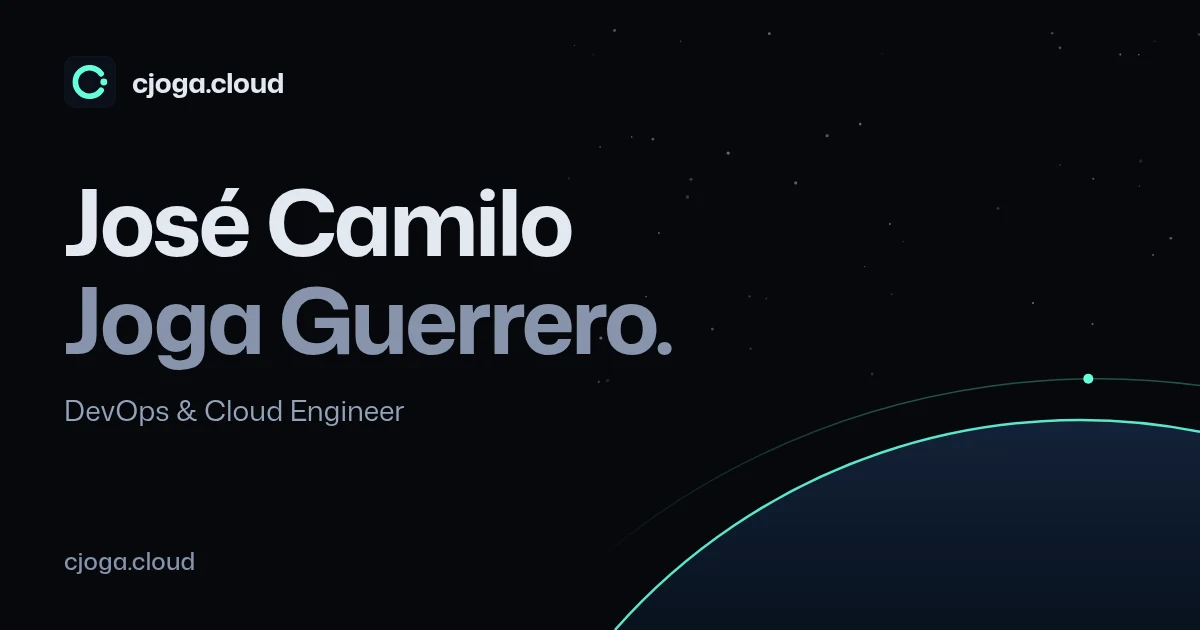
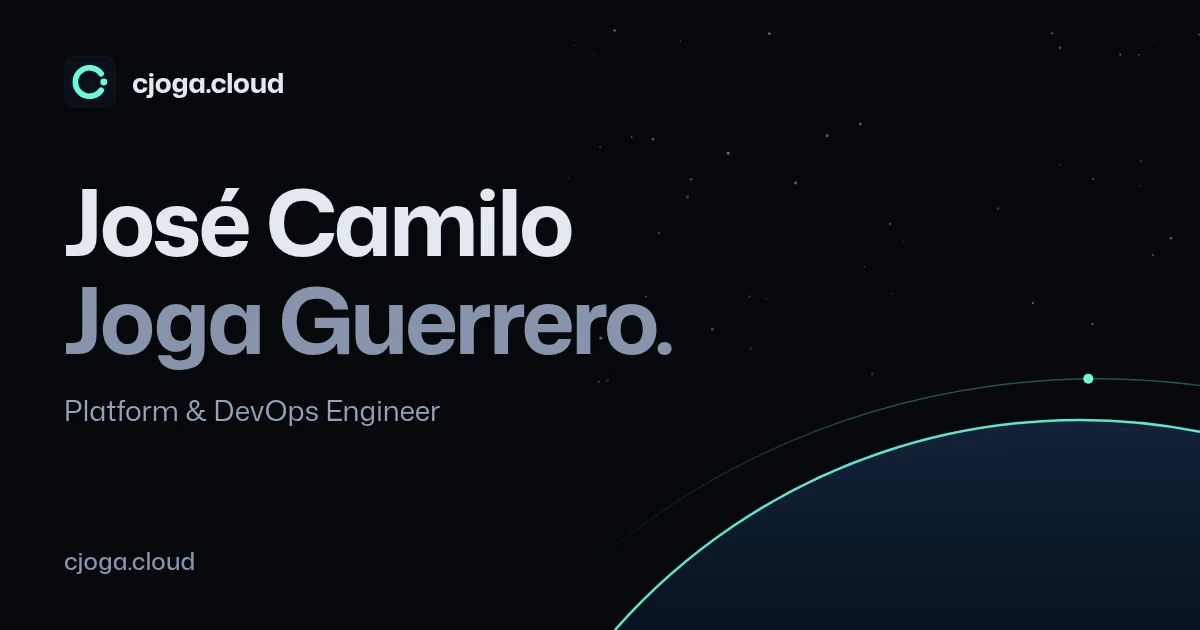
fix(portfolio): one set of facts, titles and brand colours across both sites
From a four-way consistency audit of the portfolio and the handbook:
the hero roles name real work, led by "Platform & DevOps Engineer" (no
"Senior" on either site); the Tech MBA uses UNIR's name and "in
progress"; the CV lists certifications most recent first with CKA's
November 30, 2026 target; KodePull SRL is cased one way; lab labels say
"Cluster overview"; the contact line says remote with global scope.

Brand colours now match between sites and their sources: Terraform
#7b42bc, Dynatrace #1496ff, Globant #bfd732, Arctiq #42d4ff (from
arctiq.com); Azure, Azure DevOps and Docker use the same icons as the
handbook. The portfolio's social card drops the old "DevOps & Cloud
Engineer" title.

Changed region(s): [[0.0617, 0.6333, 0.37, 0.6937]]

diff --git a/src/components/ProfessionalPDFCV.jsx b/src/components/ProfessionalPDFCV.jsx
@@ -157,6 +157,24 @@ const CV_NAME = "José Camilo Joga Guerrero";
 // full record.
 const CV_LINES = 6;
 
+// Earned certifications, most recent first: the order of the handbook's
+// credentials page. CKA (in progress) prints after them with its target.
+const CV_CERTS = [
+  "spectro",
+  "ckad",
+  "kcna",
+  "hcta",
+  "awsSolutionsArchitect",
+  "rhce",
+  "rhcsa",
+  "dynatrace",
+  "partner",
+  "gitlabImplementation",
+  "gitlabServices",
+  "gitlabMigration",
+  "gitlabCicd",
+];
+
 const ProfessionalPDFCV = () => {
   const { t } = useTranslation();
 
@@ -405,129 +423,24 @@ const ProfessionalPDFCV = () => {
             {t("cv.certifications", "CERTIFICATIONS")}
           </Text>
           <View style={styles.certGrid}>
-            <View style={styles.certItem}>
-              <Text style={styles.certName}>
-                {t("certifications.awsSolutionsArchitect.name")}
-              </Text>
-              <Text style={styles.certIssuer}>
-                {t("certifications.awsSolutionsArchitect.issuer")},{" "}
-                {t("certifications.awsSolutionsArchitect.date")}
-              </Text>
-            </View>
-            <View style={styles.certItem}>
-              <Text style={styles.certName}>
-                {t("certifications.hcta.name")}
-              </Text>
-              <Text style={styles.certIssuer}>
-                {t("certifications.hcta.issuer")},{" "}
-                {t("certifications.hcta.date")}
-              </Text>
-            </View>
-            <View style={styles.certItem}>
-              <Text style={styles.certName}>
-                {t("certifications.kcna.name")}
-              </Text>
-              <Text style={styles.certIssuer}>
-                {t("certifications.kcna.issuer")},{" "}
-                {t("certifications.kcna.date")}
-              </Text>
-            </View>
-            <View style={styles.certItem}>
-              <Text style={styles.certName}>
-                {t("certifications.ckad.name")}
-              </Text>
-              <Text style={styles.certIssuer}>
-                {t("certifications.ckad.issuer")},{" "}
-                {t("certifications.ckad.date")}
-              </Text>
-            </View>
+            {CV_CERTS.map((key) => (
+              <View key={key} style={styles.certItem}>
+                <Text style={styles.certName}>
+                  {t(`certifications.${key}.name`)}
+                </Text>
+                <Text style={styles.certIssuer}>
+                  {t(`certifications.${key}.issuer`)},{" "}
+                  {t(`certifications.${key}.date`)}
+                </Text>
+              </View>
+            ))}
             <View style={styles.certItem}>
               <Text style={styles.certName}>
                 {t("certifications.cka.name")}
               </Text>
               <Text style={styles.certIssuer}>
-                {t("certifications.cka.issuer")} ({t("certifications.inProgress")})
-              </Text>
-            </View>
-            <View style={styles.certItem}>
-              <Text style={styles.certName}>
-                {t("certifications.rhcsa.name")}
-              </Text>
-              <Text style={styles.certIssuer}>
-                {t("certifications.rhcsa.issuer")},{" "}
-                {t("certifications.rhcsa.date")}
-              </Text>
-            </View>
-            <View style={styles.certItem}>
-              <Text style={styles.certName}>
-                {t("certifications.rhce.name")}
-              </Text>
-              <Text style={styles.certIssuer}>
-                {t("certifications.rhce.issuer")},{" "}
-                {t("certifications.rhce.date")}
-              </Text>
-            </View>
-            <View style={styles.certItem}>
-              <Text style={styles.certName}>
-                {t("certifications.dynatrace.name")}
-              </Text>
-              <Text style={styles.certIssuer}>
-                {t("certifications.dynatrace.issuer")},{" "}
-                {t("certifications.dynatrace.date")}
-              </Text>
-            </View>
-            <View style={styles.certItem}>
-              <Text style={styles.certName}>
-                {t("certifications.gitlabCicd.name")}
-              </Text>
-              <Text style={styles.certIssuer}>
-                {t("certifications.gitlabCicd.issuer")},{" "}
-                {t("certifications.gitlabCicd.date")}
-              </Text>
-            </View>
-            <View style={styles.certItem}>
-              <Text style={styles.certName}>
-                {t("certifications.gitlabServices.name")}
-              </Text>
-              <Text style={styles.certIssuer}>
-                {t("certifications.gitlabServices.issuer")},{" "}
-                {t("certifications.gitlabServices.date")}
-              </Text>
-            </View>
-            <View style={styles.certItem}>
-              <Text style={styles.certName}>
-                {t("certifications.gitlabMigration.name")}
-              </Text>
-              <Text style={styles.certIssuer}>
-                {t("certifications.gitlabMigration.issuer")},{" "}
-                {t("certifications.gitlabMigration.date")}
-              </Text>
-            </View>
-            <View style={styles.certItem}>
-              <Text style={styles.certName}>
-                {t("certifications.gitlabImplementation.name")}
-              </Text>
-              <Text style={styles.certIssuer}>
-                {t("certifications.gitlabImplementation.issuer")},{" "}
-                {t("certifications.gitlabImplementation.date")}
-              </Text>
-            </View>
-            <View style={styles.certItem}>
-              <Text style={styles.certName}>
-                {t("certifications.spectro.name")}
-              </Text>
-              <Text style={styles.certIssuer}>
-                {t("certifications.spectro.issuer")},{" "}
-                {t("certifications.spectro.date")}
-              </Text>
-            </View>
-            <View style={styles.certItem}>
-              <Text style={styles.certName}>
-                {t("certifications.partner.name")}
-              </Text>
-              <Text style={styles.certIssuer}>
-                {t("certifications.partner.issuer")},{" "}
-                {t("certifications.partner.date")}
+                {t("certifications.cka.issuer")} ({t("certifications.inProgress")}) ·{" "}
+                {t("certifications.cka.date")}
               </Text>
             </View>
           </View>

diff --git a/src/components/About.jsx b/src/components/About.jsx
@@ -1,15 +1,15 @@
 import { useEffect, useRef, useState } from "react";
 import { useTranslation } from "react-i18next";
 import { m } from "framer-motion";
-import { FaAws, FaMicrosoft, FaDocker } from "react-icons/fa";
+import { FaAws } from "react-icons/fa";
 import {
   SiTerraform, SiAnsible, SiKubernetes, SiGitlab,
   SiJenkins, SiDynatrace, SiGithubactions,
   SiClaude, SiModelcontextprotocol, SiArgo, SiGrafana, SiOpentelemetry,
-  SiGnubash, SiAnthropic, SiNutanix,
+  SiGnubash, SiAnthropic, SiNutanix, SiDocker,
 } from "react-icons/si";
 import SectionHeading from "./SectionHeading";
-import { VscTerminalPowershell } from "react-icons/vsc";
+import { VscTerminalPowershell, VscAzure, VscAzureDevops } from "react-icons/vsc";
 import {
   sectionVariants, itemVariants,
   useParallax, viewportConfig,
@@ -83,9 +83,9 @@ function About() {
   // stage: it runs alongside all of them.
   const stages = [
     { id: "scripting", items: [["Bash", SiGnubash, "#4eaa25"], ["PowerShell", VscTerminalPowershell, "#5391fe"]] },
-    { id: "delivery", items: [["ArgoCD", SiArgo, "#ef7b4d"], ["GitLab CI", SiGitlab, "#fc6d26"], ["GitHub Actions", SiGithubactions, "#2088ff"], ["Azure DevOps", FaMicrosoft, "#0078d4"], ["Jenkins", SiJenkins, "#d24939"]] },
-    { id: "platform", items: [["Kubernetes", SiKubernetes, "#326ce5"], ["Terraform", SiTerraform, "#7b42bc"], ["Ansible", SiAnsible, "#ee0000"], ["Docker", FaDocker, "#2496ed"]] },
-    { id: "cloud", items: [["AWS · EKS", FaAws, "#ff9900"], ["Azure · AKS", FaMicrosoft, "#0078d4"], ["Nutanix · NKP", SiNutanix, "#7855fa"]] },
+    { id: "delivery", items: [["ArgoCD", SiArgo, "#ef7b4d"], ["GitLab CI", SiGitlab, "#fc6d26"], ["GitHub Actions", SiGithubactions, "#2088ff"], ["Azure DevOps", VscAzureDevops, "#0078d4"], ["Jenkins", SiJenkins, "#d24939"]] },
+    { id: "platform", items: [["Kubernetes", SiKubernetes, "#326ce5"], ["Terraform", SiTerraform, "#7b42bc"], ["Ansible", SiAnsible, "#ee0000"], ["Docker", SiDocker, "#2496ed"]] },
+    { id: "cloud", items: [["AWS · EKS", FaAws, "#ff9900"], ["Azure · AKS", VscAzure, "#0078d4"], ["Nutanix · NKP", SiNutanix, "#7855fa"]] },
     { id: "observability", items: [["OpenTelemetry", SiOpentelemetry, "#f5a800"], ["Grafana", SiGrafana, "#f46800"], ["Dynatrace", SiDynatrace, "#1496ff"]] },
   ];
   const agents = [["Claude Code", SiClaude, "#d97757"], ["MCP servers", SiModelcontextprotocol, "#8b8bf5"], ["Agent Skills", SiAnthropic, "#d97757"]];

diff --git a/src/components/Experience.jsx b/src/components/Experience.jsx
@@ -10,13 +10,14 @@ import {
   viewportConfig,
 } from "../hooks/useMotion";
 
-// Each employer's square mark, as on LinkedIn; the colour tints the
-// pulse ring on current roles.
+// Each employer's square mark, as on LinkedIn; the colour (each brand's
+// own accent: Globant's lime, KodePull's orange, FL Betances' navy,
+// Arctiq's cyan from arctiq.com) tints the pulse ring on current roles.
 const COMPANY_META = {
-  globant: { logo: "/images/logos/globant.svg", color: "#8dc63f" },
+  globant: { logo: "/images/logos/globant.svg", color: "#bfd732" },
   kodepull: { logo: "/images/logos/kodepull.svg", color: "#fe5502" },
   flBetances: { logo: "/images/logos/fl-betances.png", color: "#1a2a9c" },
-  arctiq: { logo: "/images/logos/arctiq.svg", color: "#10b981" },
+  arctiq: { logo: "/images/logos/arctiq.svg", color: "#42d4ff" },
 };
 
 // Each role leads with its three strongest lines; the rest open on

diff --git a/src/components/certifications/certData.js b/src/components/certifications/certData.js
@@ -68,7 +68,7 @@ export const CERT_GROUPS = [
     vendor: "HashiCorp",
     vendorShort: "HashiCorp",
     icon: SiTerraform,
-    color: "#7f4dff",
+    color: "#7b42bc",
     size: "standard",
     liveTile: "terraform",
     spanClasses: "md:col-span-1 md:row-span-2 lg:col-span-2",
@@ -84,7 +84,7 @@ export const CERT_GROUPS = [
     vendor: "Dynatrace",
     vendorShort: "Dynatrace",
     icon: SiDynatrace,
-    color: "#73be28",
+    color: "#1496ff",
     size: "standard",
     liveTile: "dynatrace",
     spanClasses: "md:col-span-1 md:row-span-2 lg:col-span-2",
@@ -136,6 +136,8 @@ export const CERT_GROUPS = [
     vendor: "Spectro Cloud",
     vendorShort: "Spectro Cloud",
     icon: SpectroMark,
+    // Spectro Cloud's teal (#1f7a78 in its artwork), lifted so the tile's
+    // linework reads on the dark screen.
     color: "#2bb3a3",
     size: "standard",
     liveTile: "spectro",

diff --git a/src/components/Projects.jsx b/src/components/Projects.jsx
@@ -56,7 +56,7 @@ const projects = [
     key: "iac",
     link: "globant",
     span: "",
-    color: "#7f4dff",
+    color: "#7b42bc",
     accent: "#b08aff",
     icons: [SiTerraform, FaAws, FaMicrosoft],
     caseStudy: `${HANDBOOK_URL}/engineering/work/globant`,

diff --git a/DESIGN.md b/DESIGN.md
@@ -182,7 +182,7 @@ Near-black space blues with one cool signal accent; daylight inverts the grounds
 ### Named Rules
 **The One Signal Rule.** Mint (teal in daylight) is the only accent, and it means "live or actionable". Nothing decorative is mint except the planet's rim light and orbit dashes.
 
-**The Always-Dark Chapter Rule.** The homelab and terminal chapter pins the dark palette in both themes. In light it becomes an inset dark panel with a clean edge, not a fade from white.
+**The Always-Dark Chapter Rule.** The cluster and terminal chapter pins the dark palette in both themes. In light it becomes an inset dark panel with a clean edge, not a fade from white.
 
 **The Paired Theme Rule.** Every pair must clear WCAG AA in both themes; `npm run contrast:check` is the gate.
 
@@ -295,7 +295,7 @@ Composed and precise: components announce state with tone and a small lift, neve
 A C drawn as an orbit (a 28-unit stroke on a 70-unit ring, round caps, opening ±0.62 rad to the right) with its satellite parked in the gap, in Signal Mint on a Deep Space (#0b0f1a) tile with 58-unit corners on a 256 grid and a 16%-mint hairline edge. Pure geometry: no text element, no gradient. The source is `scripts/brand/mark.svg` (maskable variant: `scripts/brand/maskable.svg`); `npm run brand` renders the favicons, app icons and social cards for both sites. The tile stays dark in the light theme.
 
 ### Reader Paths (handbook)
-From 1200px the four readers sit two by two (studying, hiring / homelab, opinions), each heading and intro over its rows, paired lists aligned by subgrid; 997–1199px keeps heading-left, rows-right; phones stack in the same order. The handbook's entry points by reader ("If you're studying", "If you're hiring", "If you're curious about the homelab", "If you want my opinions and what I'm up to"): a heading and a one-line intro per reader on the left and its links on the right from 997px, as hairline rows of at least 56px with an arrow that nudges on hover. One source (`blog-site/src/data/readerPaths.js`) feeds the landing page and the 404 page. The section index pages use the same rows (`ReaderPaths/rows.module.css`, via SectionCardGrid): title, one-line description, no icons. Each row's label is the exact title of the page it opens. "If you're hiring" ends on "CV on cjoga.cloud" (cjoga.cloud/#contact), opening in place with no external-link mark. Rows reach 12px past the column on each side so the focus ring, drawn inside the row, has room around the text without moving it. Lists ordered by date (Tips and gotchas) add a quiet date read from each page's front matter at build time, and lists in reading order (Opinions) show none; the article dateline keeps both Published and Updated. The 404 page echoes the address that wasn't found, offers a search field pre-filled with that address's words, then the reader paths. It lists up to three closest pages first, as reader-path rows (title, path below), offered only when a page covers at least half the words of the bad address's last segment (else the nearest published folder above it, or nothing); the echoed address wraps only after "/" or "-" and leads the page (1.125rem, full ink) with the lede a step down; the search is pre-filled only with words a page could be about, else it shows its placeholder.
+From 1200px the four readers sit two by two (studying, hiring / cluster, opinions), each heading and intro over its rows, paired lists aligned by subgrid; 997–1199px keeps heading-left, rows-right; phones stack in the same order. The handbook's entry points by reader ("If you're studying", "If you're hiring", "If you're curious about the homelab", "If you want my opinions and what I'm up to"): a heading and a one-line intro per reader on the left and its links on the right from 997px, as hairline rows of at least 56px with an arrow that nudges on hover. One source (`blog-site/src/data/readerPaths.js`) feeds the landing page and the 404 page. The section index pages use the same rows (`ReaderPaths/rows.module.css`, via SectionCardGrid): title, one-line description, no icons. Each row's label is the exact title of the page it opens. "If you're hiring" ends on "CV on cjoga.cloud" (cjoga.cloud/#contact), opening in place with no external-link mark. Rows reach 12px past the column on each side so the focus ring, drawn inside the row, has room around the text without moving it. Lists ordered by date (Tips and gotchas) add a quiet date read from each page's front matter at build time, and lists in reading order (Opinions) show none; the article dateline keeps both Published and Updated. The 404 page echoes the address that wasn't found, offers a search field pre-filled with that address's words, then the reader paths. It lists up to three closest pages first, as reader-path rows (title, path below), offered only when a page covers at least half the words of the bad address's last segment (else the nearest published folder above it, or nothing); the echoed address wraps only after "/" or "-" and leads the page (1.125rem, full ink) with the lede a step down; the search is pre-filled only with words a page could be about, else it shows its placeholder.
 
 ### Search (handbook)
 Offline search, indexed at build time (no third-party service). Desktop: a hairline field in the navbar, "Search the handbook", with a quiet Ctrl K hint from 1280px. Phone: a 44px search control at the right of the bar that opens a full-width field over it. Results are grouped by page. A dropdown row leads with the matched heading in primary text, then a one-line excerpt with matched terms in accent weight (never a yellow mark); the page title sits above in a quiet 0.75rem line, shown only on a page's first row; no tree glyphs or type icons. The active row takes the dim-accent fill and an Enter mark. On /search each page's title links the page, with a short parent breadcrumb, and its matched sections follow as indented links behind a hairline, excerpts clamped to two lines on phones; a status line counts "N matches in M pages", and the empty and no-results states offer example queries. Arrow keys move through results, Tab leaves the field, Esc closes the results and keeps focus in the field. Tab title: "Search | Camilo's handbook", or "“query” – Search | Camilo's handbook". Ranking is exact, then prefix, then fuzzy, and words of four characters or fewer never match fuzzily. The dropdown shows at most 8 rows. When no page holds every word of a multi-word query, both the dropdown and /search say "No page has all of these words." and list pages per word under "Pages matching “word”". Section index lists (`.section-index-list`) stay out of the index, so a hub never duplicates the articles it lists. The "Ctrl K" (⌘ K) keycap hint shows from 1200px on keyboard devices; there is no single-key shortcut (WCAG 2.1.4). On phones the results panel is a sheet of the page ground running edge to edge under the bar (no radius, no shadow, hairline below, scrolls inside itself). When nothing matches, it names the query and offers example queries as listbox options the arrows reach; Enter or a tap runs that search. A page shows at most 3 sections in the dropdown while several pages match; /search shows 5, then "Show N more in this page". Ordering is by match quality, then by what matched: page title, a guide's domain heading (`#sheet-…`), other headings, body text; a guide's "Key commands by domain" H2 drops out when one of its domains matched. A visually hidden polite status gives the dropdown's count once typing pauses. On phones the open results sheet dims the page beneath it with a scrim drawn as its own clipped spread shadow. Learner phrases reach the sections that answer them through a small owner-edited intent map (`src/theme/SearchBar/intents.js`): "tips", "exam day" → Day-of guidance; "cheat sheet", "commands", "night before" → Key commands by domain; "how long", "pass mark" → the guide's fact sheet (shown as the excerpt). Other words narrow the target to the pages they name ("ckad tips" → CKAD only); such hits rank below matches on the reader's own words and above body text. Front-matter `keywords` are tags, not text: a page found only by them ranks last and says so ("Tagged: kubernetes · {opening line}"), and a section index found only by them gives way to its own pages; a keyword the page's text bears out ranks just under a title. Every row carries a line of text. Shorthand is searched spelled out (k8s, kube → kubernetes; ex200 → rhcsa; ex294 → rhce), certification words put the /learn guides first except over a title match, and when results aren't for the query as typed one quiet line says so ("Showing results for “kubernetes”"). Sheet shorthand captions, the phone TOC toggle and in-page jumps stay out of the index. A fact-sheet hit shows the row that answers the question, opening on its label ("Duration: 2 hours · …"); a guide whose row gives a figure ranks above one that defers. Body text that matched only inside a machine name (`prox-k8s-master`) ranks last unless the reader typed the whole name. Every word of a query counts: a page must hold all of the reader's words (stop words aside; shorthand counts through its spelled-out form); a word no page holds is named in one quiet line, "Not found: “zxqvbn”", over results for the others, and when no page holds them all the per-word groups follow "No page has all of these words.". Among pages that matched alike, one whose title, description or first sentence names the word or a kind of it (`KINDS`: K3s for Kubernetes) leads. The /search heading holds exactly two lines so the field never shifts. The Atom feed is served as `application/atom+xml; charset=utf-8`; in a browser it is styled by `/atom.css` (CSS, not XSLT) with XHTML-namespace elements for a readable page, and stays valid Atom. On first use the loading ring takes the magnifier's slot (16px, one arc, still without motion) and the status says "Loading search…" once. The /search example queries are hairline links with 8px corners, never pills.
@@ -319,7 +319,7 @@ Mermaid renders at build time in two palettes from the tokens (daylight: white n
 A canvas-rendered planet limb with a mint rim light and halo, banded rings, inclined dotted orbits whose dashes drift, satellites at different periods and probes on transfer arcs, over a parallax starfield and film grain. It reads its colors from the theme tokens, so daylight gets a lighter scene with the same dark planet. Graphics and motion only: no labels, numbers or data.
 
 ### Dark Chapter (signature)
-The full-bleed, always-dark section for the homelab and the live read-only terminal. It pins the dark palette with `.chapter-dark` in both themes; in light it is a 28px-rounded inset panel with the chapter inset shadow.
+The full-bleed, always-dark section for the KodePull cluster and the live read-only terminal. It pins the dark palette with `.chapter-dark` in both themes; in light it is a 28px-rounded inset panel with the chapter inset shadow.
 
 ### Section Divider
 A 40%-wide 1px accent-gradient hairline that scales from 0 to 1 to 0 and peaks at 60% opacity as it crosses the viewport, with a 4px Signal Mint dot at its center. Compositor-only (scaleX, opacity).

diff --git a/PRODUCT.md b/PRODUCT.md
@@ -49,7 +49,7 @@ The site is itself the proof. It runs on KodePull's on-prem K3s cluster, which h
 ## Evidence on Hand
 
 - Live K3s cluster hosting the site, plus the read-only terminal (`src/components/Terminal/`, `server/routes/terminal.js`).
-- 13 certifications earned, matching the handbook's credentials page: CKAD and KCNA (The Linux Foundation, Kubestronaut path), Spectro Cloud Certified – Palette Associate (2026; the program has no public badge, so no Credly link), Terraform Associate (004), AWS Certified Solutions Architect, RHCE, RHCSA, Dynatrace Associate, Accredited Partner Technical Engineer (Technology Partners) and four from GitLab (Implementation Services Specialist, Services Engineer Professional, Migration Specialist, CI/CD Associate). CKA is in progress, not earned: step three on the Kubestronaut path. The vendor-idiom live tiles are in `src/components/certifications/liveTiles/`.
+- 13 certifications earned, matching the handbook's credentials page: CKAD and KCNA (The Linux Foundation, Kubestronaut path), Spectro Cloud Certified – Palette Associate (2026; the program has no public badge, so no Credly link), Terraform Associate (004), AWS Certified Solutions Architect, RHCE, RHCSA, Dynatrace Associate, Accredited Partner Technical Engineer (Technology Partners) and four from GitLab (Implementation Services Specialist, Services Engineer Professional, Migration Specialist, CI/CD Associate). CKA is in progress, not earned: step three on the Kubestronaut path, target date November 30, 2026. RHCSA and RHCE renew on RHEL 10 in Q1 2027. Nutanix: NKP courses only, not certified; never list it as a certification. The vendor-idiom live tiles are in `src/components/certifications/liveTiles/`.
 - Experience with real numbers is in `public/locales/*/translation.json`: Globant (300+ services, Databricks and Unity Catalog as code, alerts-as-code, Claude agents in CI/CD), Arctiq (60+ apps to EKS, 5–8× less redundant surface, observability from zero, SOC2 gating), FL Betances (50+ teams), and KodePull (co-founder & CTO).
 - Projects: the open-source Kubestronaut exam simulator, plus platform work written up in the handbook.
 - Photo: `public/images/camilo.webp`.

diff --git a/README.md b/README.md
@@ -8,7 +8,7 @@ one source of truth.
 | **Portfolio** | React + Vite + Express | [cjoga.cloud](https://cjoga.cloud) |
 | **Handbook** | Docusaurus (static) | [blog.cjoga.cloud](https://blog.cjoga.cloud) |
 
-Both run on a self-hosted K3s cluster behind Envoy Gateway and a
+Both run on KodePull's on-prem K3s cluster behind Envoy Gateway and a
 Cloudflare Tunnel. See the lab overview at
 [blog.cjoga.cloud/engineering/lab/overview](https://blog.cjoga.cloud/engineering/lab/overview).
 
@@ -134,7 +134,7 @@ the Actions UI as `workflow_dispatch`.
 |---|---|
 | `/` | Audience-paths landing |
 | `/me/*` | Personal — who I am, opinions, learning + tools, credentials |
-| `/engineering/lab/*` | The K3s lab — overview + tips and gotchas |
+| `/engineering/lab/*` | The KodePull cluster — overview + tips and gotchas |
 | `/engineering/work/*` | Work engagements |
 | `/learn/*` | Cert guides |
 

diff --git a/STYLE.md b/STYLE.md
@@ -49,7 +49,7 @@ adjectives.
 ### Publishing
 
 - **Never name end clients in public content.** Employers are fine
-  (Arctiq, Globant, FL Betances, KODEPULL). The
+  (Arctiq, Globant, FL Betances, KodePull). The
   actual clients those employers placed me with are not named on
   the site. Banking, retail, etc. — anonymized.
 
